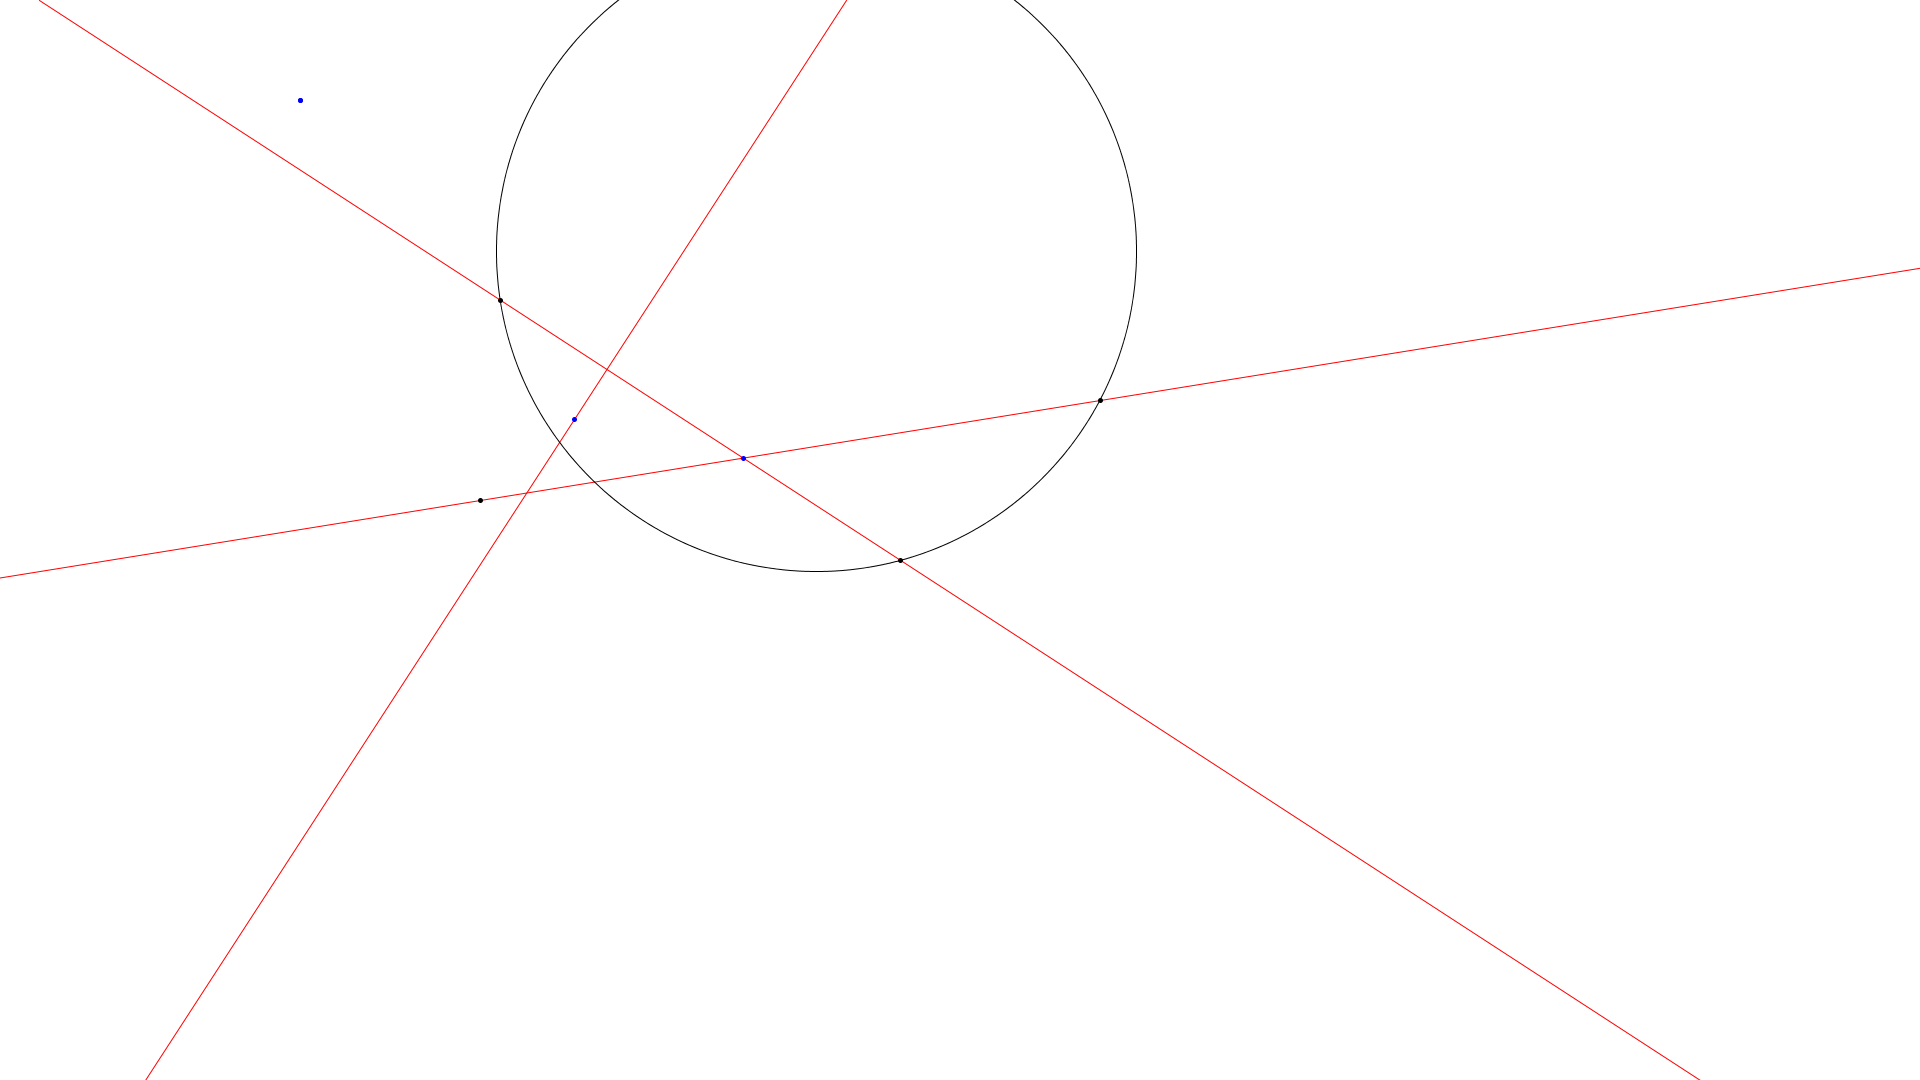
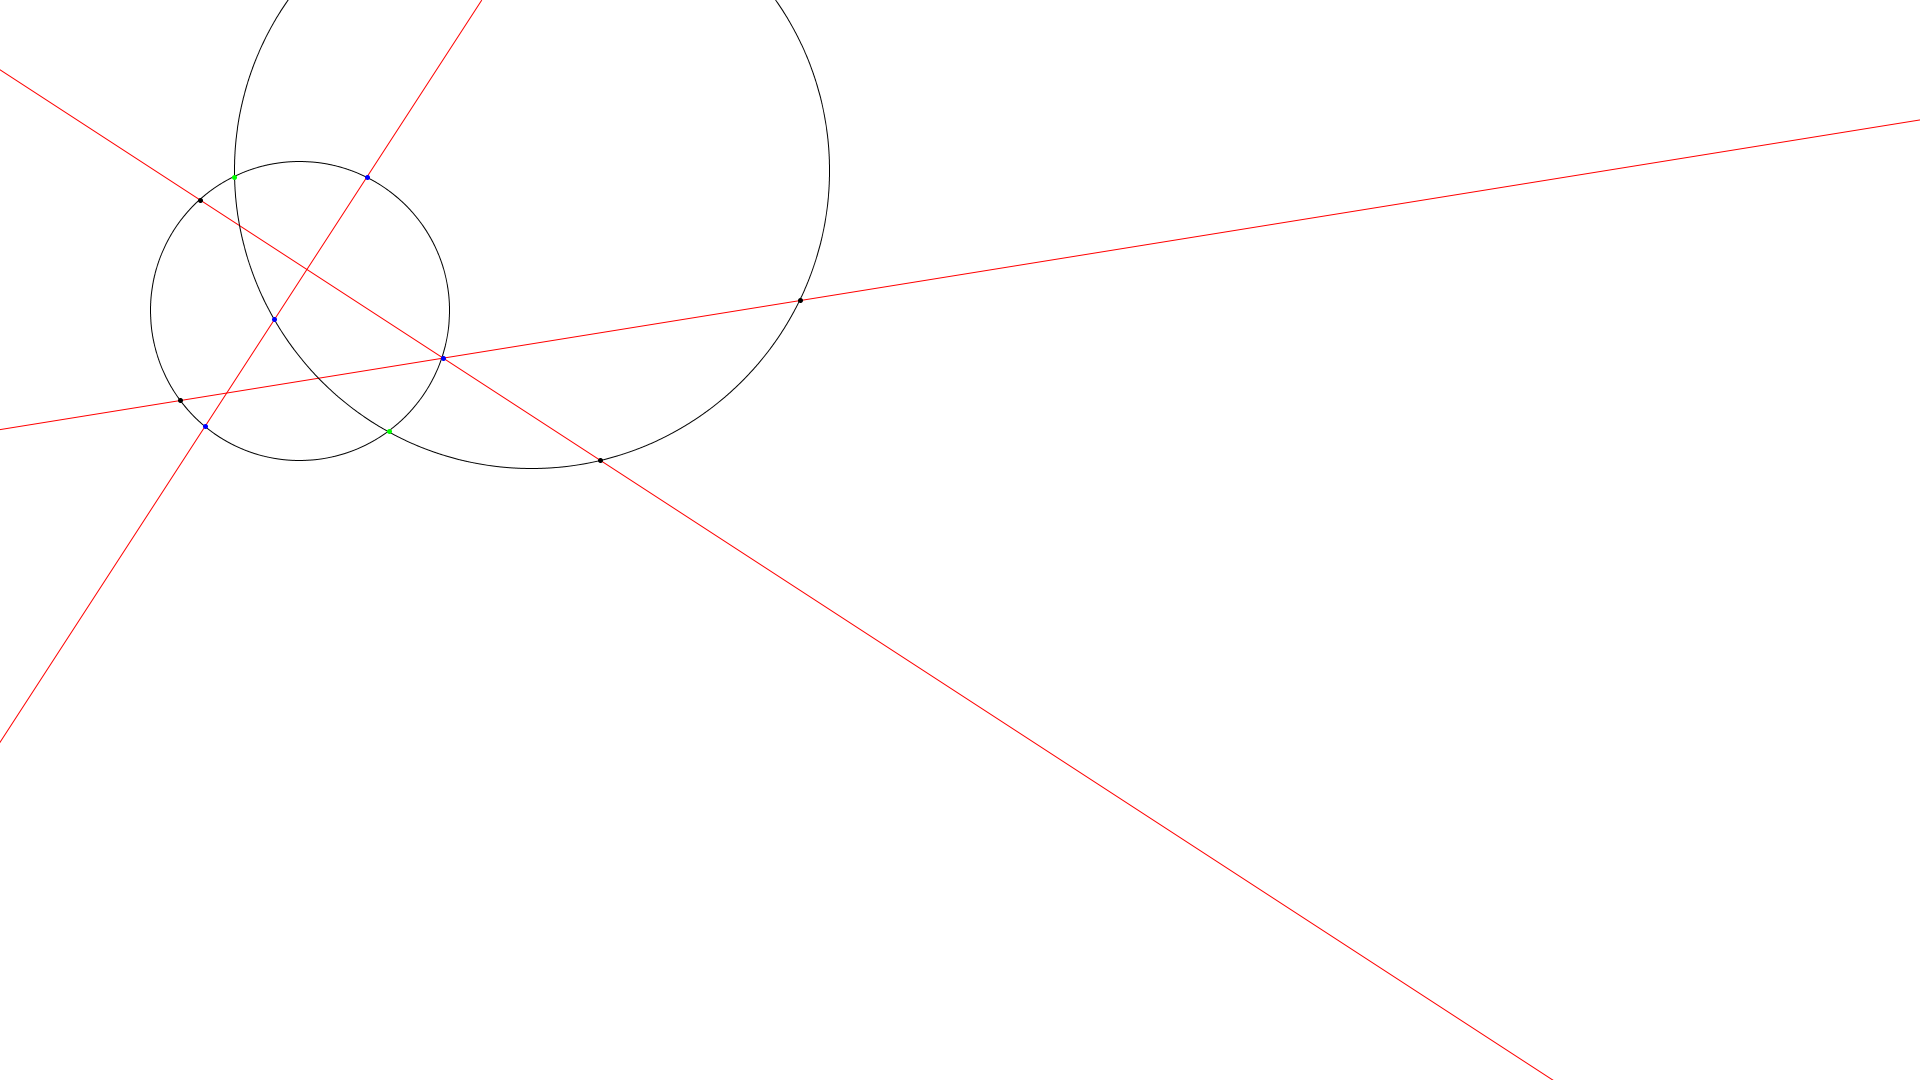
Added circle-circle and line-circle intersection

diff --git a/src/com/aziis98/vrenderer/api/primitives/PCircle.java b/src/com/aziis98/vrenderer/api/primitives/PCircle.java
@@ -44,20 +44,36 @@ public class PCircle implements ICanvasPainter, IPrimitive {
         DyNumber d  = distance( dx, dy );
         DyNumber D  = segment.p1.getX().mul( segment.p2.getY() ).sub( segment.p2.getX().mul( segment.p1.getY() ) );
 
-        PPoint i1 = new PPoint(
-                D.mul( dy ).add( sgn( dy ).mul( dx ).mul( radius.pow2().mul( d.pow2() ).sub( D.pow2() ).sqrt() ) ).div( d.pow2() ),
+        D.mul( dy ).add( sgn( dy ).mul( dx ).mul( radius.pow2().mul( d.pow2() ).sub( D.pow2() ).sqrt() ) ).div( d.pow2() ),
                   D.mul( dx ).negate().add( dy.abs().mul( radius.pow2().mul( d.pow2() ).sub( D.pow2() ).sqrt() ) ).div( d.pow2() )
+
+                  D.mul( dy ).sub( sgn( dy ).mul( dx ).mul( radius.pow2().mul( d.pow2() ).sub( D.pow2() ).sqrt() ) ).div( d.pow2() ),
+                  D.mul( dx ).negate().sub( dy.abs().mul( radius.pow2().mul( d.pow2() ).sub( D.pow2() ).sqrt() ) ).div( d.pow2() )
+        */
+
+        PLine tline = line.move( center.getX(), center.getY() );
+
+        PPoint i1 = new PPoint(
+                tline.a.mul( tline.c ).add( tline.b.mul( radius.pow2().mul( tline.a.pow2().add( tline.b.pow2() ) ).sub( tline.c.pow2() ).sqrt() ) ).div( tline.a.pow2().add( tline.b.pow2() ) ).add( center.getX() ),
+                tline.b.mul( tline.c ).sub( tline.a.mul( radius.pow2().mul( tline.a.pow2().add( tline.b.pow2() ) ).sub( tline.c.pow2() ).sqrt() ) ).div( tline.a.pow2().add( tline.b.pow2() ) ).add( center.getY() )
         );
 
         PPoint i2 = new PPoint(
-                D.mul( dy ).sub( sgn( dy ).mul( dx ).mul( radius.pow2().mul( d.pow2() ).sub( D.pow2() ).sqrt() ) ).div( d.pow2() ),
-                  D.mul( dx ).negate().sub( dy.abs().mul( radius.pow2().mul( d.pow2() ).sub( D.pow2() ).sqrt() ) ).div( d.pow2() )
+                tline.a.mul( tline.c ).sub( tline.b.mul( radius.pow2().mul( tline.a.pow2().add( tline.b.pow2() ) ).sub( tline.c.pow2() ).sqrt() ) ).div( tline.a.pow2().add( tline.b.pow2() ) ).add( center.getX() ),
+                tline.b.mul( tline.c ).add( tline.a.mul( radius.pow2().mul( tline.a.pow2().add( tline.b.pow2() ) ).sub( tline.c.pow2() ).sqrt() ) ).div( tline.a.pow2().add( tline.b.pow2() ) ).add( center.getY() )
         );
 
         return new PPoint[] { i1, i2 };
-        */
+    }
 
-        return null;
+    public PPoint[] intersect(PCircle circle) {
+        PLine line = new PLine(
+                circle.center.getX().sub( center.getX() ).mul( 2 ),
+                circle.center.getY().sub( center.getY() ).mul( 2 ),
+                radius.pow2().sub( circle.radius.pow2() ).sub( center.getX().pow2() ).sub( center.getY().pow2() ).add( circle.center.getX().pow2() ).add( circle.center.getY().pow2() )
+        );
+
+        return intersect( line );
     }
 
     private static DyNumber sgn(DyNumber number) {

diff --git a/src/com/aziis98/testing/TestCanvas.java b/src/com/aziis98/testing/TestCanvas.java
@@ -5,6 +5,7 @@ import com.aziis98.vrenderer.api.primitives.*;
 
 import javax.imageio.*;
 import java.io.*;
+import java.util.*;
 
 import static java.awt.Color.*;
 
@@ -14,7 +15,7 @@ public class TestCanvas {
 
         Canvas canvas = new Canvas();
 
-        canvas.traslateBy( 300, 100 );
+        // canvas.traslateBy( 300, 100 );
 
         PPoint p1 = new PPoint(200, 200);
         PPoint p2 = new PPoint(600, 460);
@@ -31,9 +32,13 @@ public class TestCanvas {
         PLine l3 = l1.perpendicular( p6 );
 
         // PPoint p7 = PPoint.orthocenter( p1, p2, p3 );
-        PCircle c1 = new PCircle( p1, p2, p3 );
+        PCircle c1 = new PCircle( p1, p4, p5 );
+        PCircle c2 = new PCircle( p6, p3, p2 );
 
-        PPoint[] ps1 = c1.intersect( l2 );
+        PPoint[] ps1 = c1.intersect( l3 );
+        PPoint[] ps2 = c1.intersect( c2 );
+
+        System.out.println( Arrays.toString( ps2 ) );
 
         canvas.setBackground( WHITE );
 
@@ -47,12 +52,17 @@ public class TestCanvas {
         canvas.draw( p2 );
         canvas.draw( p3 );
         canvas.draw( p4 );
+
         canvas.draw( c1 );
+        canvas.draw( c2 );
 
         canvas.setColor( BLUE );
         canvas.draw( p5 );
         canvas.draw( p6 );
         canvas.draw( ps1 );
+
+        canvas.setColor( GREEN );
+        canvas.draw( ps2 );
 
         ImageIO.write( canvas.renderImage( 1920, 1080 ), "png", new File( "res/TestResult.png" ) );
 

diff --git a/src/com/aziis98/vrenderer/api/primitives/PLine.java b/src/com/aziis98/vrenderer/api/primitives/PLine.java
@@ -68,6 +68,9 @@ public class PLine implements ICanvasPainter, IPrimitive {
         return new PPoint( x, y );
     }
 
+    public PLine move(DyNumber dx, DyNumber dy) {
+        return new PLine( a, b, c.sub( a.mul( dx ) ).sub( b.mul( dy ) ) );
+    }
 
     public PLine perpendicular(PPoint point) {
         return new PLine( this.b, this.a.negate(), point.getX().mul( b ).sub( point.getY().mul( a ) ) );

diff --git a/src/com/aziis98/vrenderer/api/primitives/DyNumber.java b/src/com/aziis98/vrenderer/api/primitives/DyNumber.java
@@ -56,6 +56,10 @@ public interface DyNumber {
         return () -> -get();
     }
 
+    default DyNumber printout() {
+        System.out.println(get());
+        return this;
+    }
 
     static DyNumber cost(double value) {
         return () -> value;
